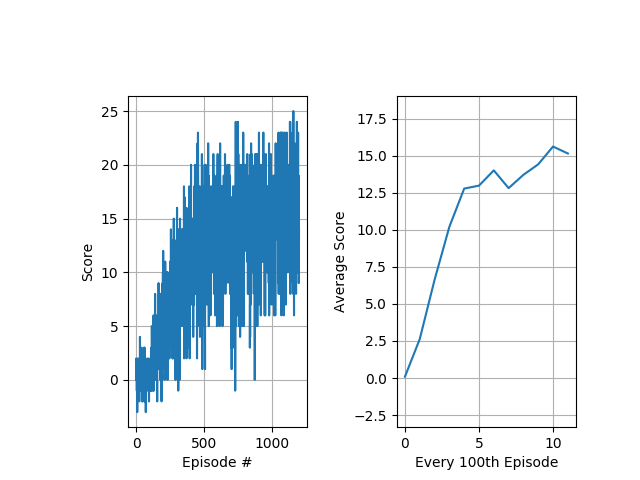
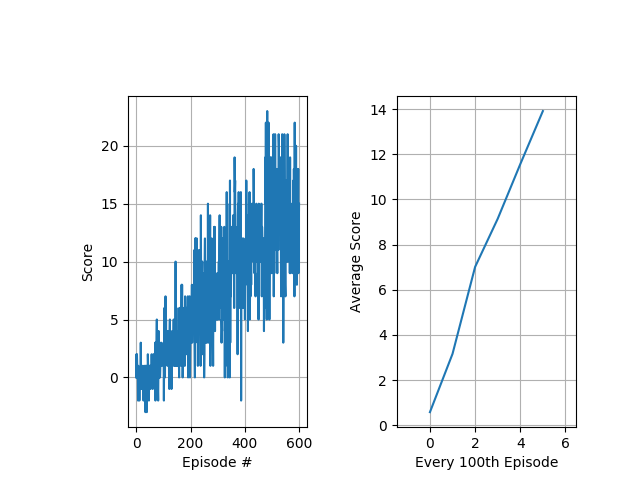
solved env

diff --git a/p1_navigation/ddqn.py b/p1_navigation/ddqn.py
@@ -36,7 +36,7 @@ parser.add_argument('--pkl_file_name', default='scores.pkl', help='Stats output 
 parser.add_argument('--learning_rate', type=float, default=0.001, metavar='N', help='optimizer learning rate')
 parser.add_argument('--replay_mem', type=int, default=10000, metavar='N', help='replay memory')
 parser.add_argument('--num_history', type=int, default=4, metavar='N', help='num history')
-parser.add_argument('--num_episodes', type=int, default=1200, metavar='N', help='num episodes')
+parser.add_argument('--num_episodes', type=int, default=600, metavar='N', help='num episodes')
 parser.add_argument('--batch_size', type=int, default=64, metavar='N', help='batch size')
 parser.add_argument('--update_every', type=int, default=4, metavar='N', help='update every')
 parser.add_argument('--gamma', type=float, default=0.99, metavar='N',
